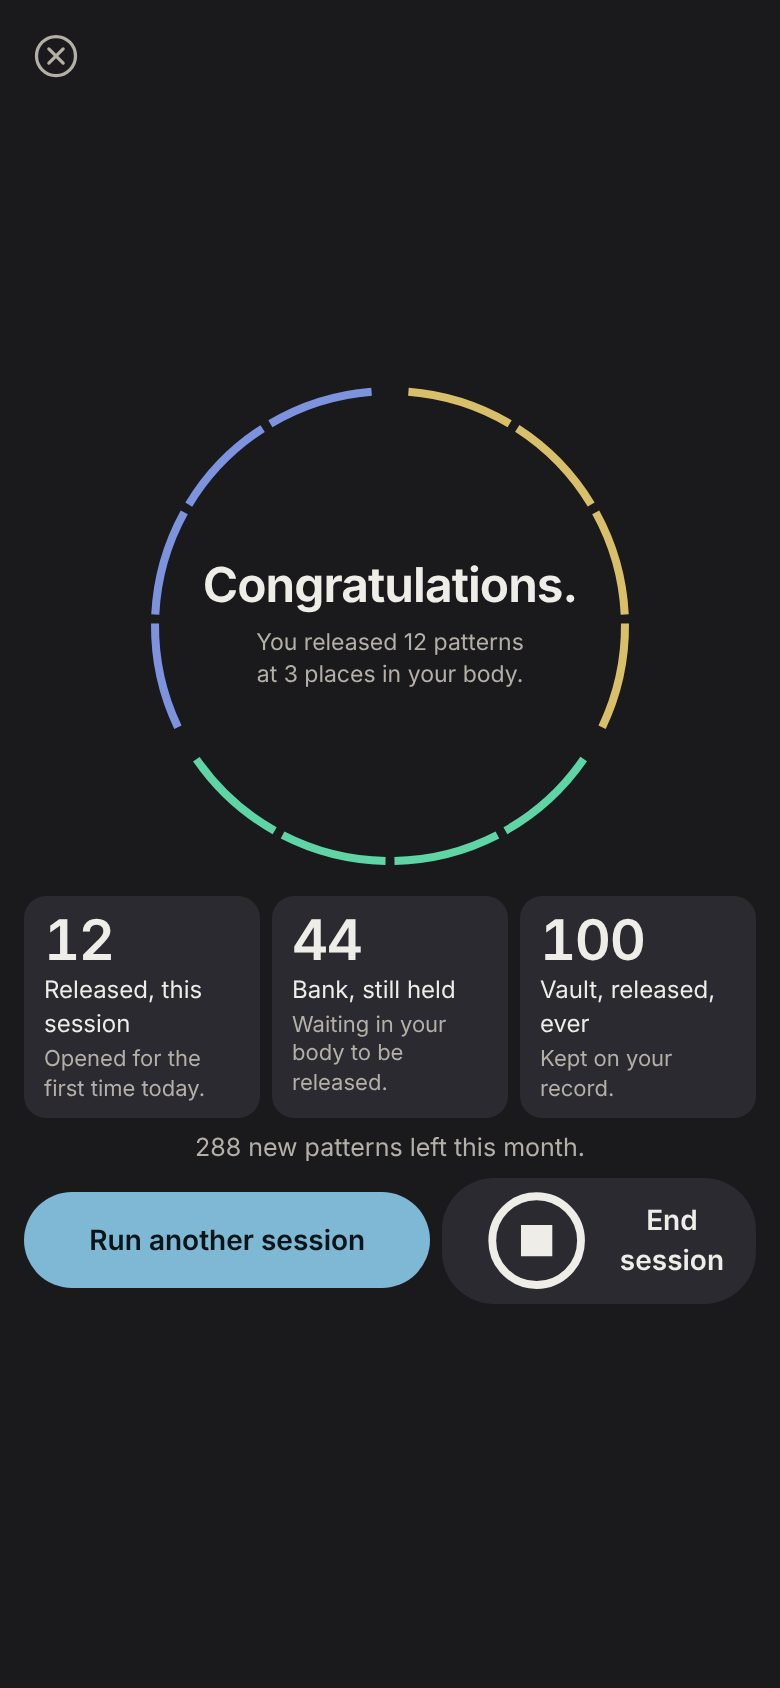
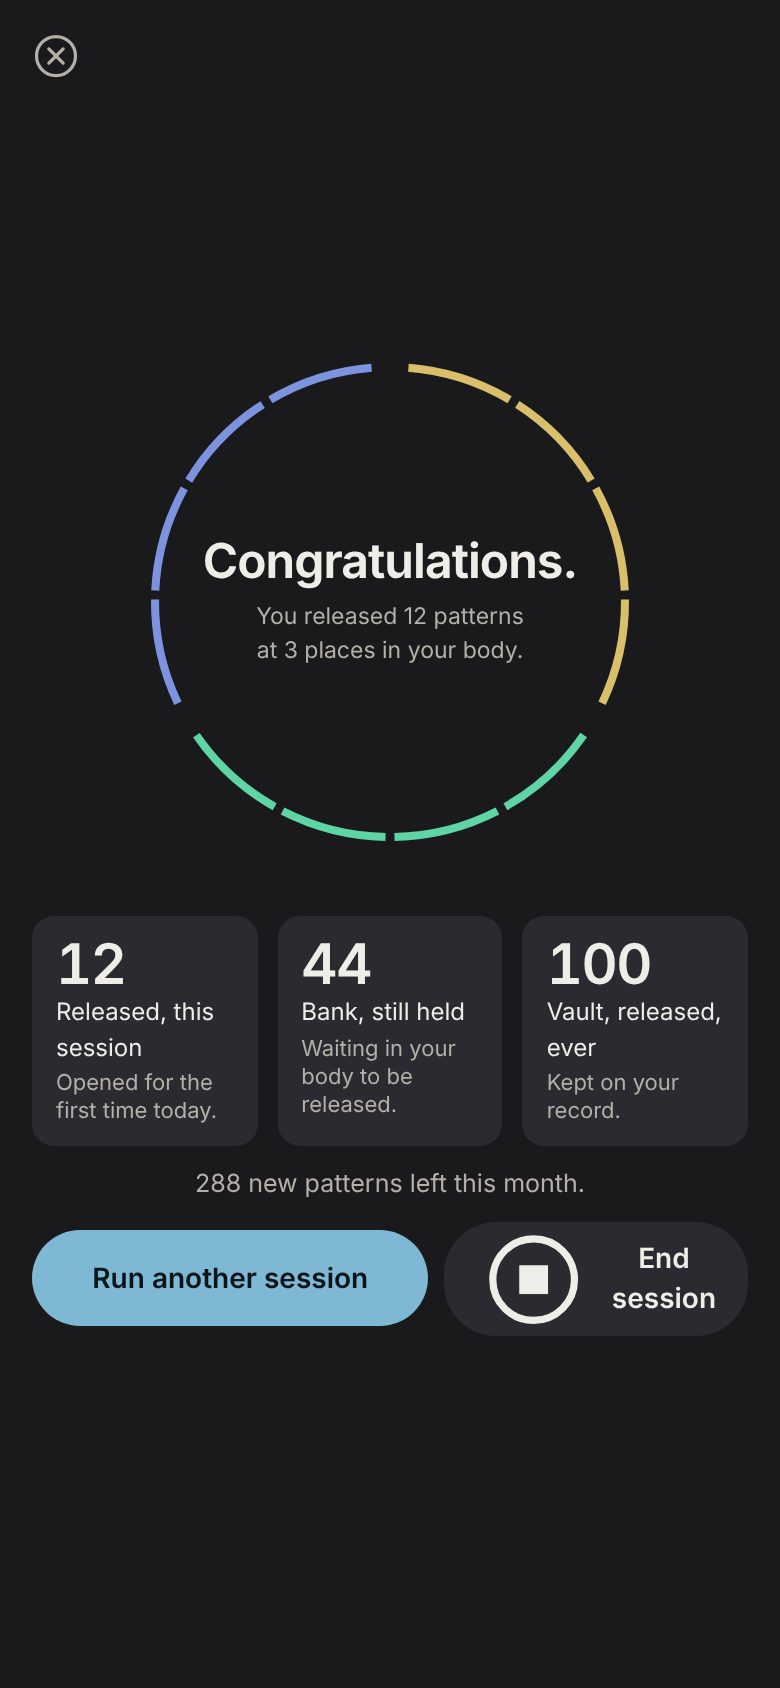
Fix compressed, unsymmetrical spacing on the dial (r3), per his second reaction
His words on the screenshots the previous round produced: "The design is a
C. The layout is too compressed and needs to be symmetrical and evenly
spaced."

Measured the real cause before touching anything: .r3's outer layout used
justify-content:space-between, which pins the first/last child to the
padding edge and hands only the content-dependent leftover to the gaps
between them. That leftover was a different, accidental number on every
state: 39.7px before begin, 63.9px running, 22px between the ring and the
stats on completion, and just 10px on a phone, the tightest spot measured.
Top and bottom padding were also two different numbers (48px/60px), a real
asymmetry on a screen called out for needing to be symmetrical.

Switched to justify-content:center on one declared gap per state, so the
space above and below the whole block is always the true leftover split
evenly (top margin now equals bottom margin to the pixel, verified at
both widths, every state), made top/bottom padding equal, and replaced
the scattered 6/8/10/12/14/22/28px gap values with a deliberate scale
(14/16/18/24/28/32/40/44). The tightest spot (10px, ring to stats on a
phone) is 32px now; its desktop counterpart (22px) is 44px now.

Spacing only: no face, ring or text size changed, nothing was removed.
Re-ran shots.js r3 (24 states, both widths) and the ended-early demo
state after: all still ok, zero clipping or scrolling.

Claude-Session: https://claude.ai/code/session_016LLF9NZj8M8zDK26vbWgWq

Changed region(s): [[0.0308, 0.4313, 0.9231, 0.8009], [0.1846, 0.2156, 0.8308, 0.4313], [0.8, 0.7085, 0.9231, 0.8009]]

diff --git a/mockups/release/r3-the-dial.html b/mockups/release/r3-the-dial.html
@@ -172,7 +172,18 @@ body.rm .cr:not([data-d="0"]){display:none}
 
 /* 3. THE DIAL. A watch face, Nomos and the Braun clocks: one ring, twelve
    marks, nothing that is not a reading. Ring, never fill. */
-.r3{position:absolute;inset:0;display:flex;flex-direction:column;align-items:center;justify-content:space-between;padding:48px 24px 60px;gap:10px}
+/* His 18-19 October read on the first pass: "too compressed, needs to be
+   symmetrical and evenly spaced." Measured why: this container used to
+   centre nothing and space nothing by a fixed rule. justify-content:
+   space-between pinned the first and last child to the padding edges and
+   handed whatever was left over to the two inner gaps, so the gap was a
+   different, accidental number on every state and every width: 39.7px
+   before begin, 63.9px while running, and on the completion the ring sat
+   only 22px from the stats, 10px on a phone. Centred now, on one declared
+   gap, so the space above and below the whole block is always the real
+   leftover split evenly, which is what symmetrical means, and the gap
+   between the parts is a chosen number and not a remainder. */
+.r3{position:absolute;inset:0;display:flex;flex-direction:column;align-items:center;justify-content:center;padding:56px 32px 56px;gap:28px}
 .r3p{font-size:28px;max-width:24em;min-height:2.44em;display:flex;align-items:center;justify-content:center;transition:opacity var(--t-line) var(--ease-out);flex:none}
 .r3p.wait{opacity:.32}
 .r3p.off{display:none}
@@ -198,7 +209,7 @@ body.rm .in .cg{animation:none}
 .r3c{position:absolute;left:12%;right:12%;top:14%;bottom:20%;--rowh:72px}
 .r3c .cr{font-size:18px}
 .ft{position:absolute;left:0;right:0;bottom:15%;text-align:center;color:var(--mid);font-size:14px}
-.r3t{display:flex;flex-direction:column;align-items:center;gap:10px;flex:none;min-height:96px;justify-content:flex-end}
+.r3t{display:flex;flex-direction:column;align-items:center;gap:16px;flex:none;min-height:96px;justify-content:flex-end}
 .r3t .row{display:flex;align-items:center;justify-content:center;gap:10px;flex-wrap:wrap}
 .r3t .lb{display:inline-flex;align-items:center;gap:10px;color:var(--mid);font-size:14px;margin:0 6px}
 .r3t .sm{text-align:center}
@@ -208,8 +219,8 @@ body.rm .in .cg{animation:none}
 .r3t .ad{margin:0;display:flex;align-items:center;gap:8px;color:var(--mid);font-size:15px}
 .r3t .ad b{color:var(--ink);font-weight:500}
 .r3t .sp{margin:0;font-size:15px;text-align:center;max-width:46em;text-wrap:balance}
-.r3f{display:grid;grid-template-columns:repeat(3,1fr);gap:12px;width:min(820px,calc(100vw - 48px))}
-.r3f .fg{background:var(--panel-2);border-radius:var(--r);padding:14px 18px;display:flex;flex-direction:column}
+.r3f{display:grid;grid-template-columns:repeat(3,1fr);gap:18px;width:min(820px,calc(100vw - 48px))}
+.r3f .fg{background:var(--panel-2);border-radius:var(--r);padding:18px 22px;display:flex;flex-direction:column}
 .r3f b{font-size:44px;font-weight:600;line-height:1.05;letter-spacing:-.025em}
 .r3f .fl{font-size:15px;color:var(--ink)}
 .r3f .fm{font-size:13.5px;color:var(--mid);margin-top:2px}
@@ -220,25 +231,27 @@ body.rm .in .cg{animation:none}
    its parent with no stretch, so a percentage width here has no definite
    base to resolve against and collapses to the icon's own size, which is
    exactly how this shipped BAD at first (44 tall, 22 wide). */
-.quad{display:grid;grid-template-columns:repeat(4,56px);gap:10px}
+.quad{display:grid;grid-template-columns:repeat(4,56px);gap:14px}
 .quad .qi{width:56px;padding:0;gap:0}
 .quad .qi svg{width:22px;height:22px}
 .quad .qi[aria-pressed="false"]{color:var(--mid)}
 /* the two completion buttons, same size, side by side: his "make sure our
    buttons are here, that this page is symmetrical" */
-.doneacts{gap:14px}
+.doneacts{gap:18px}
 .go2{display:inline-flex;align-items:center;justify-content:center;gap:10px;min-height:52px;padding:0 28px;border-radius:26px;border:0;
  background:var(--panel-2);color:var(--ink);font-size:17px;font-weight:600;cursor:pointer}
 .go2:hover{background:color-mix(in srgb,var(--panel-2) 80%,#fff)}
 #rs[data-ph="done"] .face{--D:min(380px,calc(100vh - 44px - 470px))}
 body.embed #rs[data-ph="done"] .face{--D:min(380px,calc(100vh - 470px))}
 #rs[data-ph="done"] .in{inset:12%}
-#rs[data-ph="done"] .r3{justify-content:center;gap:22px}
-#rs[data-ph="cool"] .r3{justify-content:center;gap:28px}
+/* the two tightest spots measured: the ring sat 22px from the stats on
+   completion and 28px from the cooldown clock. Both get real room now. */
+#rs[data-ph="done"] .r3{gap:44px}
+#rs[data-ph="cool"] .r3{gap:40px}
 #rs[data-ph="before"] .in{inset:18%}
 
 @media (max-width:760px){
- .r3{padding:50px 12px 54px;gap:6px}
+ .r3{padding:40px 16px 40px;gap:24px}
  .r3p{font-size:18px;min-height:3.66em}
  .face,body.embed .face{--D:min(340px,calc(100vw - 32px))}
  #rs[data-ph="before"] .face,body.embed #rs[data-ph="before"] .face{--D:250px}
@@ -251,26 +264,28 @@ body.embed #rs[data-ph="done"] .face{--D:min(380px,calc(100vh - 470px))}
  .r3c{left:13%;right:13%;top:15%;bottom:22%;--rowh:62px}
  .r3c .cr{font-size:13px}
  .ft{font-size:12.5px;bottom:12%}
- .r3t{gap:6px;min-height:0}
- .r3t .row{gap:6px}
+ .r3t{gap:10px;min-height:0}
+ .r3t .row{gap:8px}
  .r3t .lb{margin:0;gap:6px;font-size:12px}
  .r3t .seg button{min-width:46px;padding:0 10px}
  .r3t .sw{font-size:14px;padding:0 12px 0 10px}
  .r3t p.ss .es{flex-basis:100%;margin:0;text-align:center}
  .r3t .ad{font-size:13px}
  .r3t .sp{font-size:13px}
- .r3f{grid-template-columns:repeat(3,1fr);gap:6px;width:100%}
- .r3f .fg{padding:8px 10px;border-radius:var(--r-s)}
+ .r3f{grid-template-columns:repeat(3,1fr);gap:10px;width:100%}
+ .r3f .fg{padding:10px 12px;border-radius:var(--r-s)}
  .r3f b{font-size:28px}
  .r3f .fl{font-size:12px}
  .r3f .fm{font-size:11px;line-height:1.3}
  #rs[data-ph="done"] .face,body.embed #rs[data-ph="done"] .face{--D:250px}
- #rs[data-ph="done"] .r3{gap:10px}
+ /* this was the 10px the ring sat from the stats on a phone, the tightest
+    single spot measured. Real room now, same as desktop's proportion. */
+ #rs[data-ph="done"] .r3{gap:32px}
  #rs[data-ph="done"] .in .sm{font-size:11.5px}
  #rs[data-ph="done"] .in .cg{font-size:24px}
- .quad{grid-template-columns:repeat(4,44px);gap:6px}
+ .quad{grid-template-columns:repeat(4,44px);gap:10px}
  .quad .qi{width:44px}
- .doneacts{gap:8px;width:100%}
+ .doneacts{gap:10px;width:100%}
  .doneacts .go,.doneacts .go2{min-height:48px;padding:0 16px;font-size:14px;flex:1 1 auto;justify-content:center}
 }
 

diff --git a/mockups/release/src/r3.css b/mockups/release/src/r3.css
@@ -1,6 +1,17 @@
 /* 3. THE DIAL. A watch face, Nomos and the Braun clocks: one ring, twelve
    marks, nothing that is not a reading. Ring, never fill. */
-.r3{position:absolute;inset:0;display:flex;flex-direction:column;align-items:center;justify-content:space-between;padding:48px 24px 60px;gap:10px}
+/* His 18-19 October read on the first pass: "too compressed, needs to be
+   symmetrical and evenly spaced." Measured why: this container used to
+   centre nothing and space nothing by a fixed rule. justify-content:
+   space-between pinned the first and last child to the padding edges and
+   handed whatever was left over to the two inner gaps, so the gap was a
+   different, accidental number on every state and every width: 39.7px
+   before begin, 63.9px while running, and on the completion the ring sat
+   only 22px from the stats, 10px on a phone. Centred now, on one declared
+   gap, so the space above and below the whole block is always the real
+   leftover split evenly, which is what symmetrical means, and the gap
+   between the parts is a chosen number and not a remainder. */
+.r3{position:absolute;inset:0;display:flex;flex-direction:column;align-items:center;justify-content:center;padding:56px 32px 56px;gap:28px}
 .r3p{font-size:28px;max-width:24em;min-height:2.44em;display:flex;align-items:center;justify-content:center;transition:opacity var(--t-line) var(--ease-out);flex:none}
 .r3p.wait{opacity:.32}
 .r3p.off{display:none}
@@ -26,7 +37,7 @@ body.rm .in .cg{animation:none}
 .r3c{position:absolute;left:12%;right:12%;top:14%;bottom:20%;--rowh:72px}
 .r3c .cr{font-size:18px}
 .ft{position:absolute;left:0;right:0;bottom:15%;text-align:center;color:var(--mid);font-size:14px}
-.r3t{display:flex;flex-direction:column;align-items:center;gap:10px;flex:none;min-height:96px;justify-content:flex-end}
+.r3t{display:flex;flex-direction:column;align-items:center;gap:16px;flex:none;min-height:96px;justify-content:flex-end}
 .r3t .row{display:flex;align-items:center;justify-content:center;gap:10px;flex-wrap:wrap}
 .r3t .lb{display:inline-flex;align-items:center;gap:10px;color:var(--mid);font-size:14px;margin:0 6px}
 .r3t .sm{text-align:center}
@@ -36,8 +47,8 @@ body.rm .in .cg{animation:none}
 .r3t .ad{margin:0;display:flex;align-items:center;gap:8px;color:var(--mid);font-size:15px}
 .r3t .ad b{color:var(--ink);font-weight:500}
 .r3t .sp{margin:0;font-size:15px;text-align:center;max-width:46em;text-wrap:balance}
-.r3f{display:grid;grid-template-columns:repeat(3,1fr);gap:12px;width:min(820px,calc(100vw - 48px))}
-.r3f .fg{background:var(--panel-2);border-radius:var(--r);padding:14px 18px;display:flex;flex-direction:column}
+.r3f{display:grid;grid-template-columns:repeat(3,1fr);gap:18px;width:min(820px,calc(100vw - 48px))}
+.r3f .fg{background:var(--panel-2);border-radius:var(--r);padding:18px 22px;display:flex;flex-direction:column}
 .r3f b{font-size:44px;font-weight:600;line-height:1.05;letter-spacing:-.025em}
 .r3f .fl{font-size:15px;color:var(--ink)}
 .r3f .fm{font-size:13.5px;color:var(--mid);margin-top:2px}
@@ -48,25 +59,27 @@ body.rm .in .cg{animation:none}
    its parent with no stretch, so a percentage width here has no definite
    base to resolve against and collapses to the icon's own size, which is
    exactly how this shipped BAD at first (44 tall, 22 wide). */
-.quad{display:grid;grid-template-columns:repeat(4,56px);gap:10px}
+.quad{display:grid;grid-template-columns:repeat(4,56px);gap:14px}
 .quad .qi{width:56px;padding:0;gap:0}
 .quad .qi svg{width:22px;height:22px}
 .quad .qi[aria-pressed="false"]{color:var(--mid)}
 /* the two completion buttons, same size, side by side: his "make sure our
    buttons are here, that this page is symmetrical" */
-.doneacts{gap:14px}
+.doneacts{gap:18px}
 .go2{display:inline-flex;align-items:center;justify-content:center;gap:10px;min-height:52px;padding:0 28px;border-radius:26px;border:0;
  background:var(--panel-2);color:var(--ink);font-size:17px;font-weight:600;cursor:pointer}
 .go2:hover{background:color-mix(in srgb,var(--panel-2) 80%,#fff)}
 #rs[data-ph="done"] .face{--D:min(380px,calc(100vh - 44px - 470px))}
 body.embed #rs[data-ph="done"] .face{--D:min(380px,calc(100vh - 470px))}
 #rs[data-ph="done"] .in{inset:12%}
-#rs[data-ph="done"] .r3{justify-content:center;gap:22px}
-#rs[data-ph="cool"] .r3{justify-content:center;gap:28px}
+/* the two tightest spots measured: the ring sat 22px from the stats on
+   completion and 28px from the cooldown clock. Both get real room now. */
+#rs[data-ph="done"] .r3{gap:44px}
+#rs[data-ph="cool"] .r3{gap:40px}
 #rs[data-ph="before"] .in{inset:18%}
 
 @media (max-width:760px){
- .r3{padding:50px 12px 54px;gap:6px}
+ .r3{padding:40px 16px 40px;gap:24px}
  .r3p{font-size:18px;min-height:3.66em}
  .face,body.embed .face{--D:min(340px,calc(100vw - 32px))}
  #rs[data-ph="before"] .face,body.embed #rs[data-ph="before"] .face{--D:250px}
@@ -79,25 +92,27 @@ body.embed #rs[data-ph="done"] .face{--D:min(380px,calc(100vh - 470px))}
  .r3c{left:13%;right:13%;top:15%;bottom:22%;--rowh:62px}
  .r3c .cr{font-size:13px}
  .ft{font-size:12.5px;bottom:12%}
- .r3t{gap:6px;min-height:0}
- .r3t .row{gap:6px}
+ .r3t{gap:10px;min-height:0}
+ .r3t .row{gap:8px}
  .r3t .lb{margin:0;gap:6px;font-size:12px}
  .r3t .seg button{min-width:46px;padding:0 10px}
  .r3t .sw{font-size:14px;padding:0 12px 0 10px}
  .r3t p.ss .es{flex-basis:100%;margin:0;text-align:center}
  .r3t .ad{font-size:13px}
  .r3t .sp{font-size:13px}
- .r3f{grid-template-columns:repeat(3,1fr);gap:6px;width:100%}
- .r3f .fg{padding:8px 10px;border-radius:var(--r-s)}
+ .r3f{grid-template-columns:repeat(3,1fr);gap:10px;width:100%}
+ .r3f .fg{padding:10px 12px;border-radius:var(--r-s)}
  .r3f b{font-size:28px}
  .r3f .fl{font-size:12px}
  .r3f .fm{font-size:11px;line-height:1.3}
  #rs[data-ph="done"] .face,body.embed #rs[data-ph="done"] .face{--D:250px}
- #rs[data-ph="done"] .r3{gap:10px}
+ /* this was the 10px the ring sat from the stats on a phone, the tightest
+    single spot measured. Real room now, same as desktop's proportion. */
+ #rs[data-ph="done"] .r3{gap:32px}
  #rs[data-ph="done"] .in .sm{font-size:11.5px}
  #rs[data-ph="done"] .in .cg{font-size:24px}
- .quad{grid-template-columns:repeat(4,44px);gap:6px}
+ .quad{grid-template-columns:repeat(4,44px);gap:10px}
  .quad .qi{width:44px}
- .doneacts{gap:8px;width:100%}
+ .doneacts{gap:10px;width:100%}
  .doneacts .go,.doneacts .go2{min-height:48px;padding:0 16px;font-size:14px;flex:1 1 auto;justify-content:center}
 }

diff --git a/mockups/release/README.md b/mockups/release/README.md
@@ -373,3 +373,48 @@ it is words or an icon.
 Nothing on his twelve-item list. The one open item from the September round
 ("heavy marks") is unrelated to this round and still waits on his answer,
 unchanged.
+
+## 19 October: "too compressed, needs to be symmetrical and evenly spaced"
+
+His second reaction, to the screenshots the round above produced
+(`r3-run`, `r3-done`, both widths): "The design is a C. The layout is too
+compressed and needs to be symmetrical and evenly spaced." Measured what
+that meant before touching anything, by reading real box positions out of
+the built file rather than guessing from the picture:
+
+- The page's outer container (`.r3` in `r3.css`) centred nothing. It used
+  `justify-content:space-between`, which pins the first and last child to
+  the padding edge and hands whatever height is left over to the one or two
+  gaps between them. That leftover is different on every state, because
+  every state's content is a different height, so the gap was never a
+  chosen number: 39.7px before begin, 63.9px running, and on the
+  completion the ring sat 22px from the stats on a desktop and **10px** on
+  a phone, the single tightest spot measured.
+- Top and bottom padding were different numbers (48px and 60px), a small
+  but real asymmetry on a screen he called out for needing to be
+  symmetrical.
+- The spacing scale itself was ad hoc: 6, 8, 10, 12, 14, 22, 28 all in use
+  for what are conceptually the same kind of gap (icon to icon, card to
+  card, block to block), so even where a gap was not literally an
+  accident of leftover space, it was not a deliberate, repeatable rhythm
+  either.
+
+The fix: `.r3` now centres its content (`justify-content:center`) on one
+declared gap per state, so the space above and below the whole block is
+always the true leftover, split evenly, which is what symmetrical means
+on this axis; padding is equal top and bottom; and the gap values now
+step in a clear scale (14, 16, 18, 24, 28, 32, 40, 44) instead of
+scattering across a dozen numbers. Re-measured after, every state, both
+widths: top margin equals bottom margin to the pixel, at both 1600x1000
+and 390x844, on every one of before, running, paused, the cooldown, the
+completion and the ended-early demo. The ring-to-stats gap that measured
+10px on a phone is 32px now; 22px on a desktop is 44px now.
+
+No face, ring or text size changed, and no state's content was removed,
+so this is spacing only: `src/r3.css`'s `.r3`, `.r3t`, `.r3f`, `.quad`,
+`.doneacts` and the `done`/`cool` phase overrides, at both the desktop
+rules and inside the `@media (max-width:760px)` block.
+
+Gates re-run after: `shots.js r3` (24 states, both widths) and
+`shots.js r3 ended`, all still ok, zero clipping or scrolling, confirming
+the extra room did not push anything off the page at either width.
